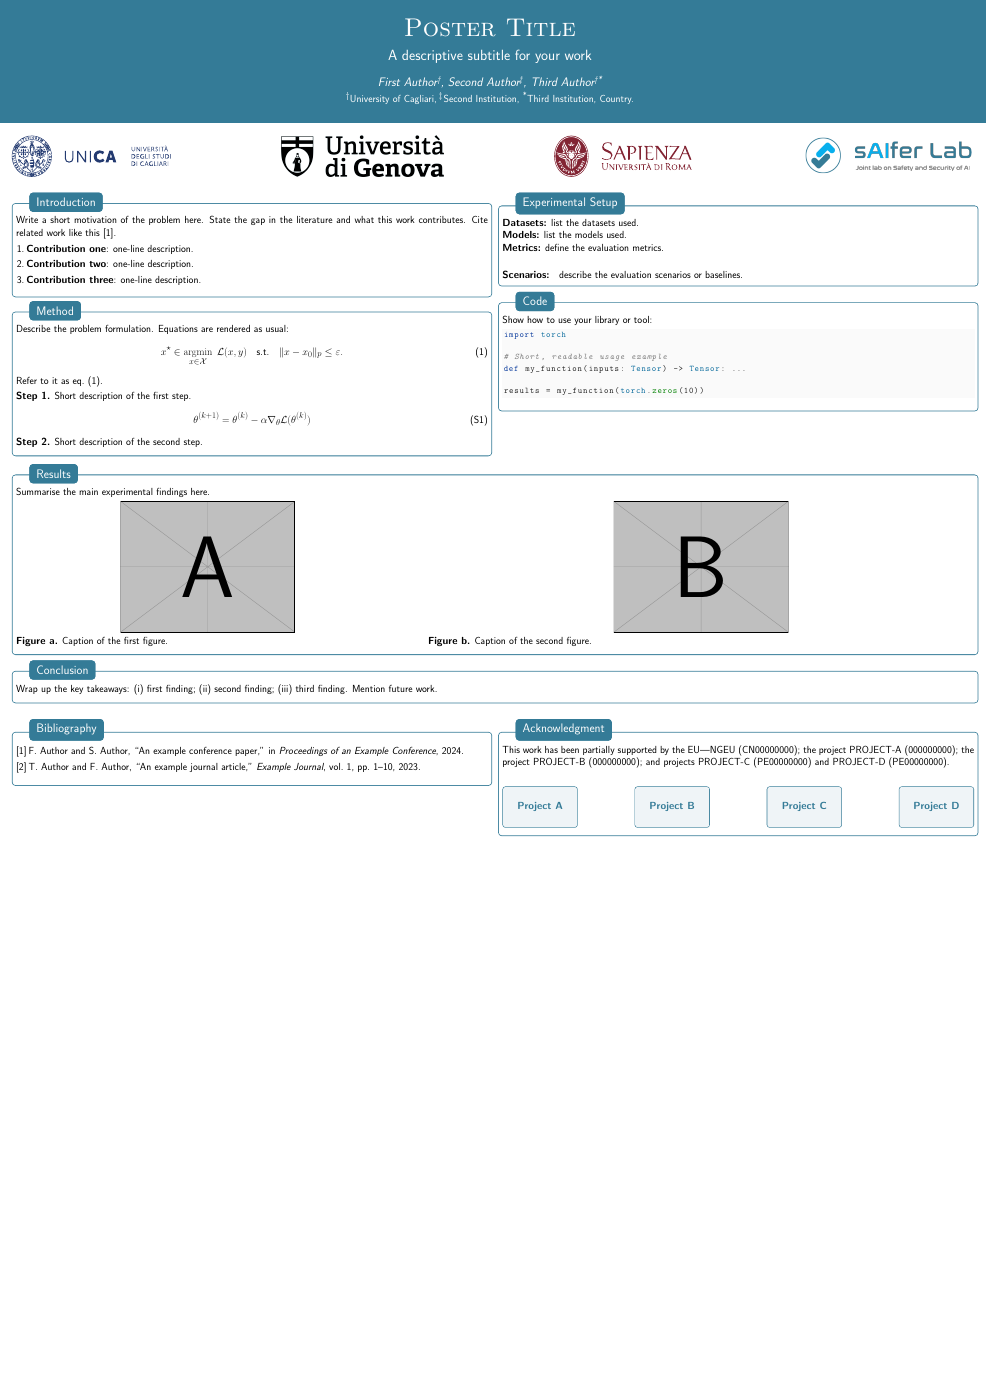
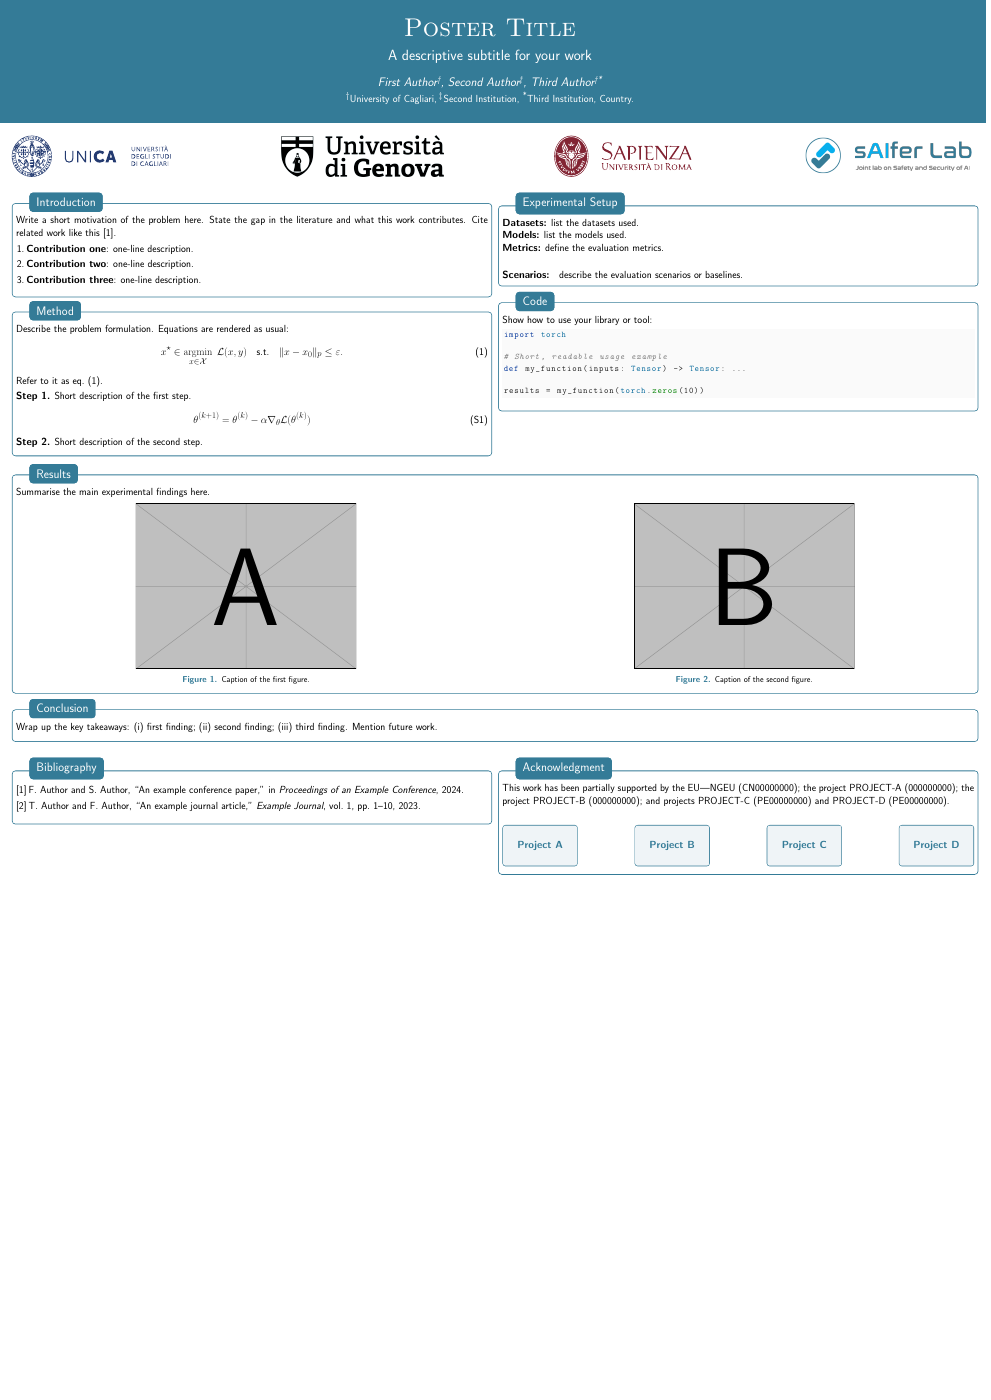
Fix figure layout: side-by-side minipages with centered numbered captions

Changed region(s): [[0.0, 0.3379, 0.999, 0.6143], [0.6054, 0.3379, 0.8779, 0.4914]]

diff --git a/main.tex b/main.tex
@@ -97,18 +97,18 @@ results = my_function(torch.zeros(10))
 %%  Full-width box
 %% ------------------------------------------------------------
 \begin{posterbox}[Results]
-Summarise the main experimental findings here.\\[0.3cm]
-\begin{minipage}[t]{0.4\textwidth}
+Summarise the main experimental findings here.\\[0.5cm]
+\begin{minipage}[t]{0.48\linewidth}
   \centering
-  \includegraphics[height=0.095\textheight]{example-image-a}\par
-  \raggedright
-  \textbf{Figure a.} Caption of the first figure.
+  \includegraphics[width=\linewidth, height=0.12\textheight, keepaspectratio]{example-image-a}
+  \captionof{figure}{Caption of the first figure.}
+  \label{fig:first}
 \end{minipage}\hfill%
-\begin{minipage}[t]{0.57\textwidth}
+\begin{minipage}[t]{0.48\linewidth}
   \centering
-  \includegraphics[height=0.095\textheight]{example-image-b}\par
-  \raggedright
-  \textbf{Figure b.} Caption of the second figure.
+  \includegraphics[width=\linewidth, height=0.12\textheight, keepaspectratio]{example-image-b}
+  \captionof{figure}{Caption of the second figure.}
+  \label{fig:second}
 \end{minipage}
 \end{posterbox}
 

diff --git a/posterstyle.tex b/posterstyle.tex
@@ -12,7 +12,10 @@
 \usepackage{booktabs}
 \usepackage{multirow}
 \usepackage{listings}
+\usepackage{caption}
 \usepackage[subrefformat=parens]{subcaption}
+\captionsetup{font=small, labelfont={bf,color=postercolor}, labelsep=period,
+  justification=centering, skip=0.5cm}
 \usepackage{multicol}
 \usepackage{url}
 \usepackage{xspace}
